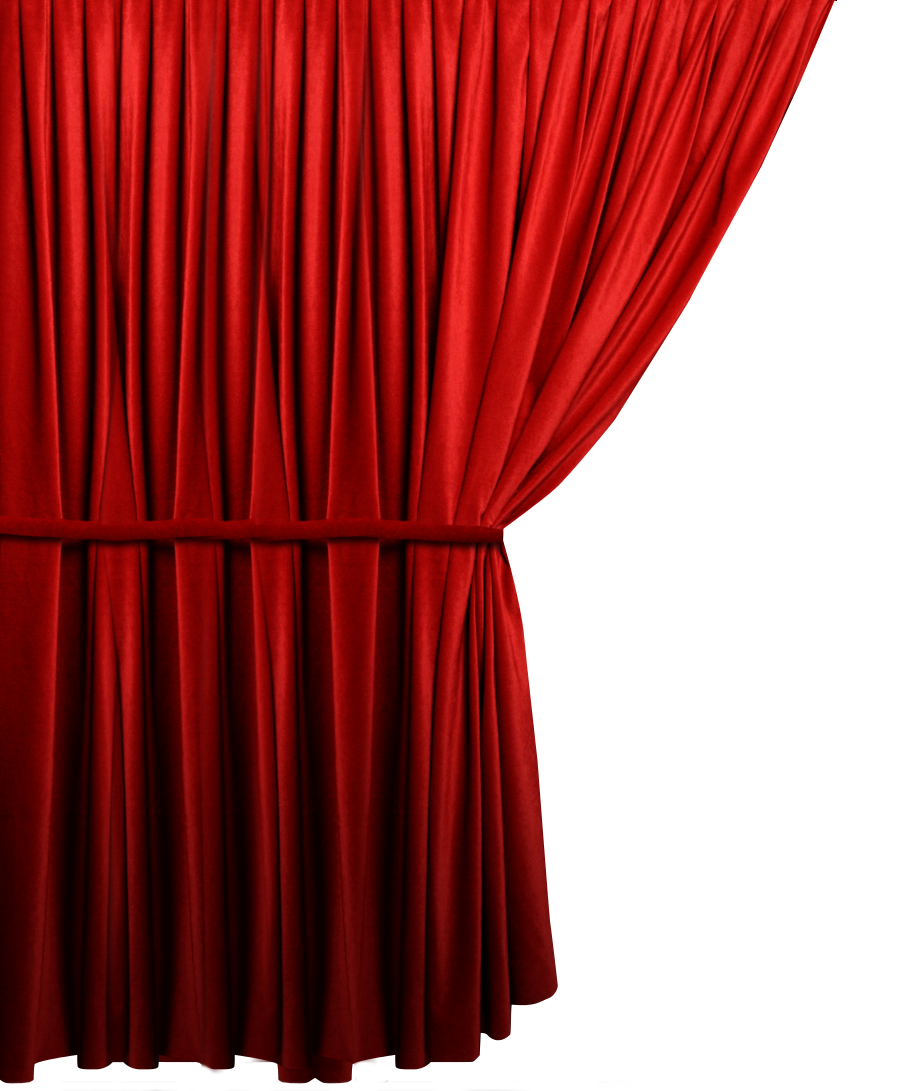
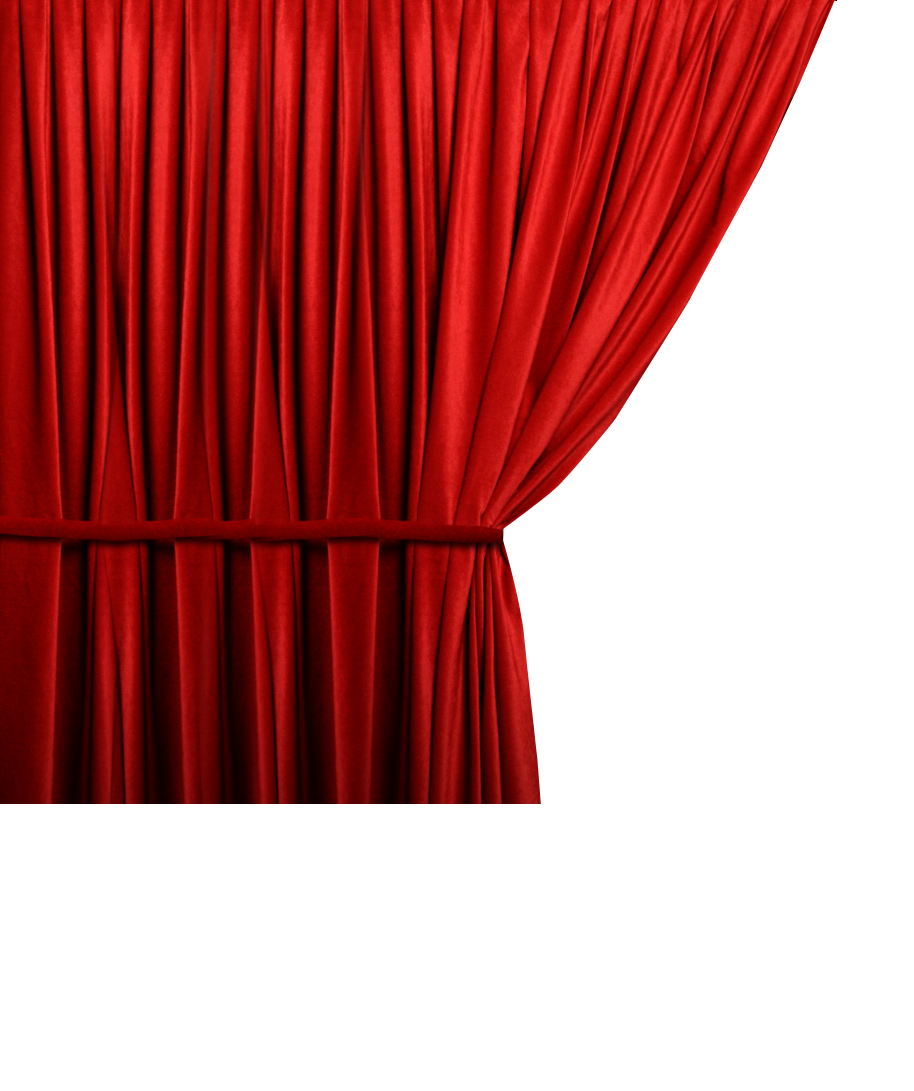
added infinite curtains

Changed region(s): [[0.0, 0.7168, 0.6127, 0.9973]]

diff --git a/index.html b/index.html
@@ -37,6 +37,10 @@
         <div class="container">
           <img class="top" src="img/top.png">
           <img class="curtain" src="img/curtain.png">
+          <img class="infinite" src="img/infinite.png">
+          <img class="infinitetwo" src="img/infinite2.png">
+
+
 
           <div class="logo-wrapper">
           <img class="logo" src="img/logo_01.png" alt="">
@@ -297,7 +301,7 @@ Schlußendlich hat Manuel Schmid die Gesamtgestaltung übernommen und alles Vorh
 
 
 
-  
+
                   </div>
                     <div class="col-md-6 col-sm-12">
                     <img class="poems-margin" src="img/slide02.jpg" />
@@ -438,7 +442,7 @@ Schlußendlich hat Manuel Schmid die Gesamtgestaltung übernommen und alles Vorh
                 <img src="img/Foto Bernhard.jpg" alt="">
               </div>
               <div class="col-xs-12 col-md-6">
-            
+
             <p class="text-center ">Bernhard Bock, geb. 25.09.1936 in Berlin, Ist der inhaltliche Finder der vorliegenden Frohsinngedichte, der Verseschmied der „Bock Späße“.</p><br>
 <p>Aus seinem Lebenslauf:</p>
             <ul>
@@ -518,7 +522,7 @@ in Potsdam-Babelsberg</li>
 
 
 
- 
+
 
           <br><br><br><br>
 
@@ -557,11 +561,11 @@ in Potsdam-Babelsberg</li>
 <p>Aus seinem Lebenslauf:</p>
                 <ul>
                   <li>Harald Kretzschmar, geb am 23. 5. 1931 in Berlin</li>
-				  <li>Studium von 1950 bis 1955 an der 
+				  <li>Studium von 1950 bis 1955 an der
 				  Hochschule für Grafik und Buchkunst in
 				  Leipzig</li>
-				  <li>Von 1955 an gehörte er bis Anfang der 
-				  90 er Jahre zum festen Stamm der 
+				  <li>Von 1955 an gehörte er bis Anfang der
+				  90 er Jahre zum festen Stamm der
 				  Zeichner des legendären satirischen
 				  "Eulenspiegel" der DDR</li>
 				  <li>Harald Kretzschmar begleitete uns bei der Entstehung des Hörbuches "Bock Späße" mit seinen Karikaturen zu den erdachten "Darstellern" und Grafiken der Gedichte. Er ist darüber hinaus ein gefragter Schnellportraitist bei Veranstaltungen der verschiedensten Art.</li>

diff --git a/css/main.css b/css/main.css
@@ -16,6 +16,18 @@ html {
     line-height: 1.4;
 }
 
+.infinite{
+  position: absolute;
+  top: 708px;
+  left: -468px;
+  background-repeat: repeat-y;
+  height: 100%;
+  width: 40.9%;
+  transform: scaleX(1.002);
+}
+
+
+
 .button-buy{
   color: #fff;
 }
@@ -252,9 +264,16 @@ width: 100%;
 .intro , .bbock, .text-table{
   text-align: left;
 }
+   .infinitetwo{
+   display: inline;
+   position: absolute;
+   top: 708px;
+   left: -467px;
+   background-repeat: repeat-y;
+   height: 100%;
+   width: 40.9%;
 
-.bbock{
-  padding: 4em 0 1em 0;
+   }
   }
 
 .lebenslauf{
@@ -272,6 +291,17 @@ width: 100%;
       pointer-events: none;
   }
 
+   .infinitetwo{
+     display: inline;
+     position: absolute;
+     top: 708px;
+     left: -225px;
+     background-repeat: repeat-y;
+     height: 100%;
+     width: 40.9%;
+     transform: scaleX(0.229);
+
+   }
 @media(min-width:992px){
    .curtain{
      position: absolute;
@@ -281,6 +311,11 @@ width: 100%;
        transform: scaleX(1);
        pointer-events: none;
    }
+
+   .infinitetwo{
+   display: none;
+   }
+
 
  }
 
